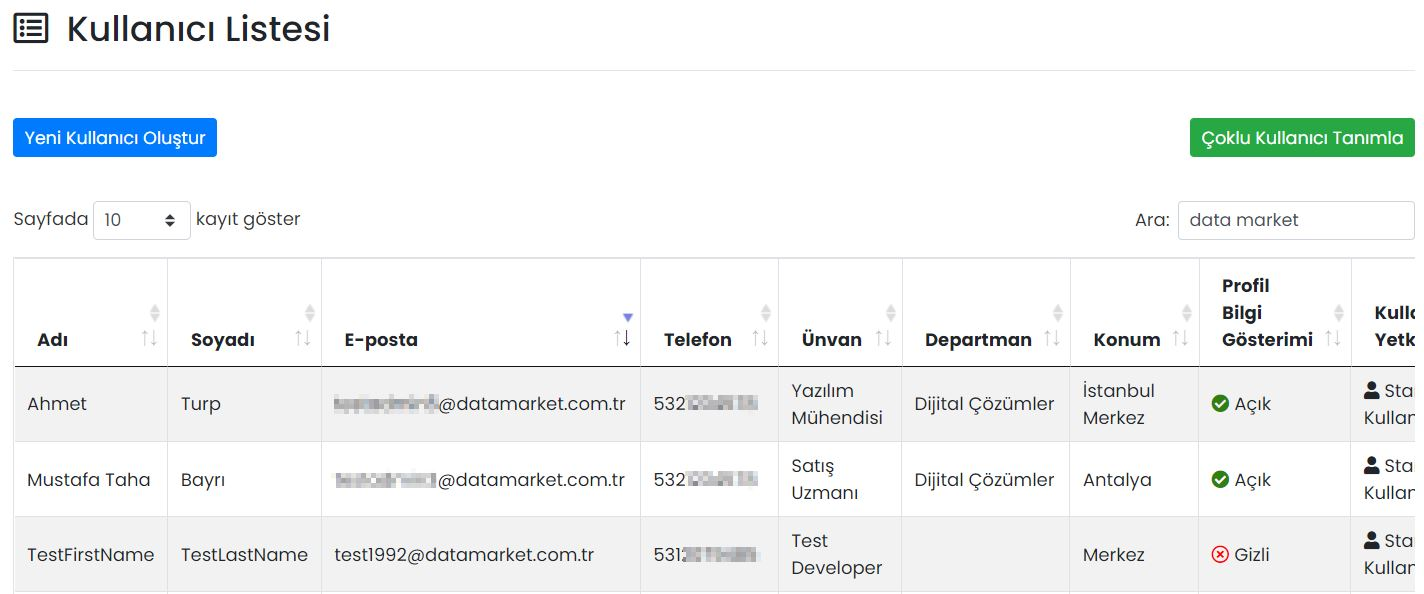
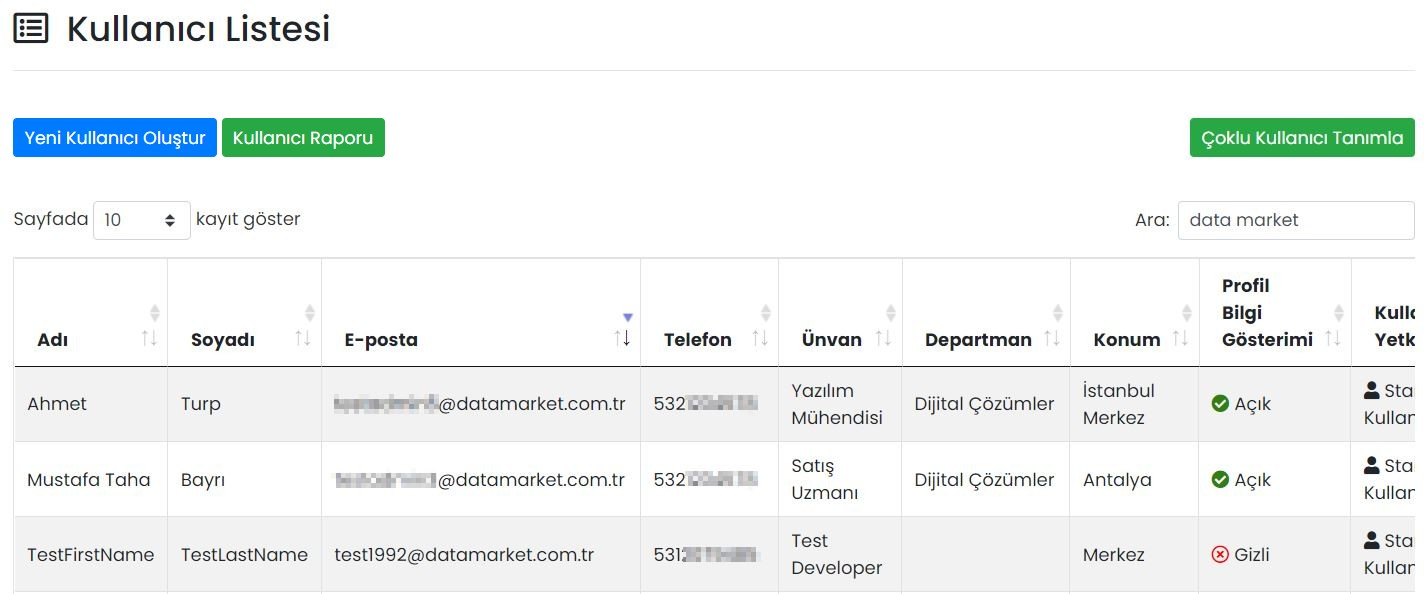
haber-bildirim onayı ve kullanıcı raporlaması
haber-bildirim onayı ve giriş yapmayan kullanıcı raporlaması

Changed region(s): [[0.1545, 0.1818, 0.2781, 0.2727]]

diff --git a/bildirimler/bildirimler/index.html b/bildirimler/bildirimler/index.html
@@ -1269,6 +1269,22 @@
 </tr>
 </tbody>
 </table>
+<details class="success">
+<summary>Bildirimleri Onaya Gönderme</summary>
+<p>Bildirimler yayınlanmadan önce <b>Onaylanması</b> sağlanabilir. Bunun için:</p>
+<ul>
+<li>Bildirimi <b>onaya gönderecek</b> kişinin yetkilerinin aşağıdaki gibi ayarlanması gereklidir:<ul>
+<li>"Yeni Bildirim Kaydet ve Onaya Gönder" ve "Bildirim Güncelle ve Onaya Gönder" yetkilerine sahip olması,</li>
+<li>"Yeni Bildirim Kaydet ve Gönder" ve "Bildirim Güncelle ve Gönder" yetkilerine sahip <u>olmaması</u>.</li>
+</ul>
+</li>
+<li>Bildirimi <b>onaylayacak</b> kişinin yetkilerinin aşağıdaki gibi ayarlanması gereklidir:<ul>
+<li>"Yeni Bildirim Kaydet ve Gönder" ve "Bildirim Güncelle ve Gönder" yetkilerine sahip olması.</li>
+</ul>
+</li>
+</ul>
+<p>Onay bekleyen bildirimler, bildirim listesinde Onay Durumu bilgisi "Bekleniyor" şeklinde görünür. Onaylayacak kişinin bildirimi düzenleyerek, "Güncelle ve Gönder" butonuna basması hâlinde bildirim yayınlanır.</p>
+</details>
 <h3 id="alclar-listesi">Alıcılar Listesi</h3>
 <p>Bildirimin gideceği kullanıcıların ya da kullanıcı gruplarının seçildiği alandır. Kullanıcı ya da gruplar ismine göre aranabilir.</p>
 <h3 id="tanml-alc-listesi">Tanımlı Alıcı Listesi</h3>

diff --git a/kullanicilar/kullanicilar/index.html b/kullanicilar/kullanicilar/index.html
@@ -330,6 +330,13 @@
 </li>
       
         <li class="md-nav__item">
+  <a href="#kullanc-raporu" class="md-nav__link">
+    Kullanıcı Raporu
+  </a>
+  
+</li>
+      
+        <li class="md-nav__item">
   <a href="#coklu-kullanc-tanmla" class="md-nav__link">
     Çoklu Kullanıcı Tanımla
   </a>
@@ -1185,6 +1192,13 @@
 </li>
       
         <li class="md-nav__item">
+  <a href="#kullanc-raporu" class="md-nav__link">
+    Kullanıcı Raporu
+  </a>
+  
+</li>
+      
+        <li class="md-nav__item">
   <a href="#coklu-kullanc-tanmla" class="md-nav__link">
     Çoklu Kullanıcı Tanımla
   </a>
@@ -1277,6 +1291,12 @@
 </tr>
 </tbody>
 </table>
+<h2 id="kullanc-raporu">Kullanıcı Raporu</h2>
+<p>Mobil Yaka'da kullanıcı hesabı olup, hiç giriş yapmamış kullanıcıları listeleyen raporu görüntüler.</p>
+<div class="admonition info">
+<p class="admonition-title">Bilgi</p>
+<p>Bu rapordaki bilgiler günlük olarak güncellenmektedir. Yani bir kullanıcı sisteme giriş yaptıktan sonra değişiklik ertesi gün rapora yansıyacaktır.</p>
+</div>
 <h2 id="coklu-kullanc-tanmla">Çoklu Kullanıcı Tanımla</h2>
 <p>Bir Excel dosyası ile, tek seferde sisteme birden çok kullanıcı eklemek için kullanılır.</p>
 <div class="admonition tip">

diff --git a/haberler/haberler/index.html b/haberler/haberler/index.html
@@ -1311,6 +1311,22 @@
 </tr>
 </tbody>
 </table>
+<details class="success">
+<summary>Haberleri Onaya Gönderme</summary>
+<p>Haberlerin yayınlanmadan önce <b>Onaylanması</b> sağlanabilir. Bunun için:</p>
+<ul>
+<li>Haberi <b>onaya gönderecek</b> kişinin yetkilerinin aşağıdaki gibi ayarlanması gereklidir:<ul>
+<li>"Yeni Haber Kaydet ve Onaya Gönder" ve "Haber Güncelle ve Onaya Gönder" yetkilerine sahip olması,</li>
+<li>"Yeni Haber Kaydet ve Gönder" ve "Haber Güncelle ve Gönder" yetkilerine sahip <u>olmaması</u>.</li>
+</ul>
+</li>
+<li>Haberi <b>onaylayacak</b> kişinin yetkilerinin aşağıdaki gibi ayarlanması gereklidir:<ul>
+<li>"Yeni Haber Kaydet ve Gönder" ve "Haber Güncelle ve Gönder" yetkilerine sahip olması.</li>
+</ul>
+</li>
+</ul>
+<p>Onay bekleyen haberler, haber listesinde Onay Durumu bilgisi "Bekleniyor" şeklinde görünür. Onaylayacak kişinin haberi düzenleyerek, "Güncelle ve Gönder" butonuna basması hâlinde haber yayınlanır.</p>
+</details>
 <h3 id="alclar-listesi">Alıcılar Listesi</h3>
 <p>Haberin yayımlandığı kullanıcıların ya da kullanıcı gruplarının seçildiği alandır. Kullanıcı ya da gruplar ismine göre aranabilir.</p>
 <h3 id="tanml-alc-listesi">Tanımlı Alıcı Listesi</h3>
